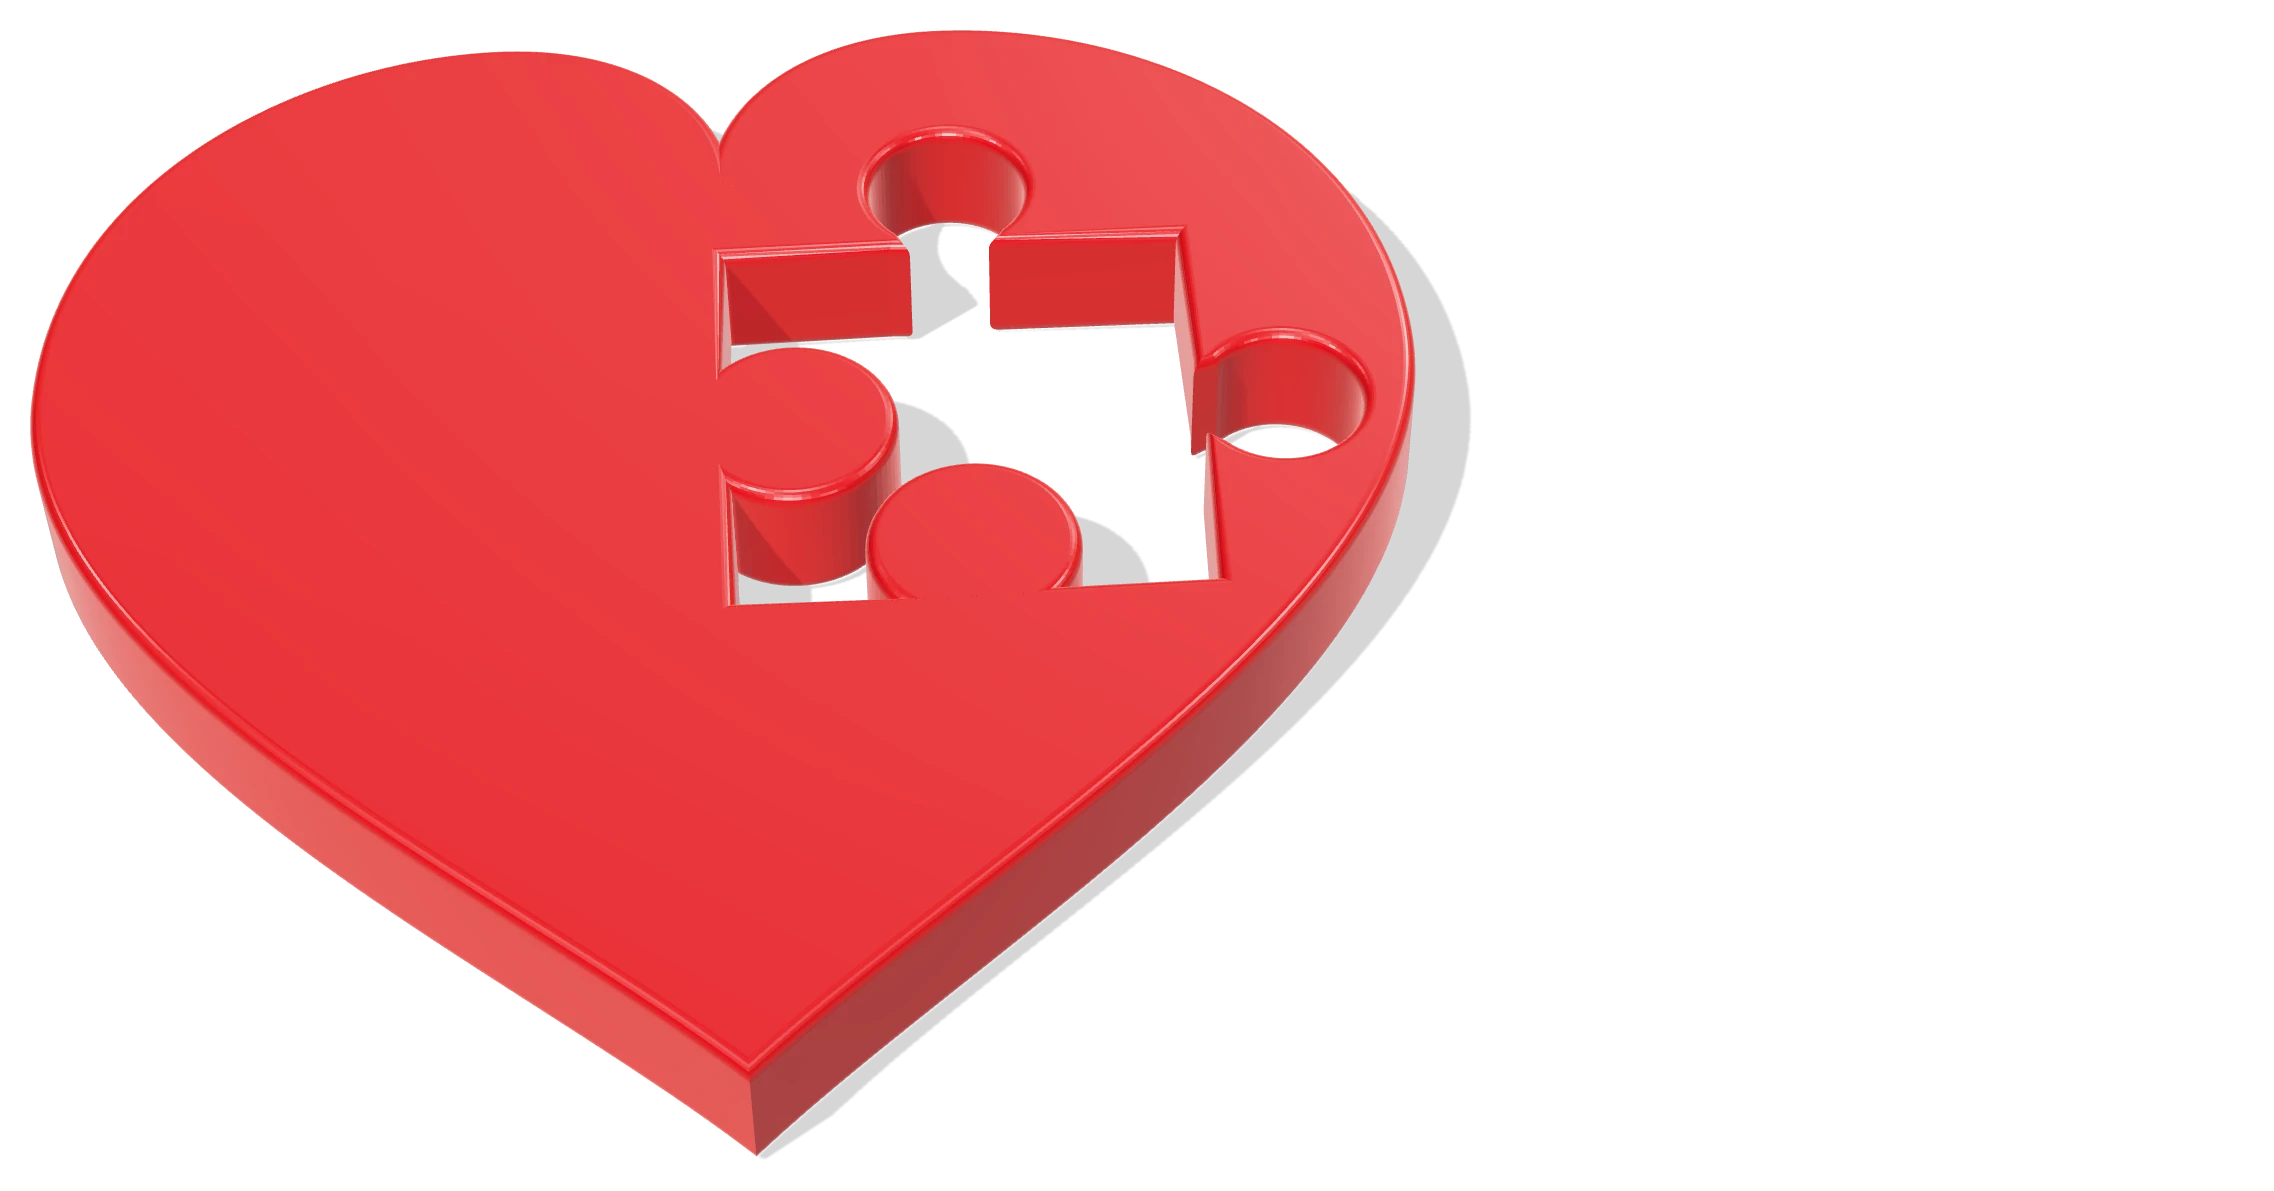
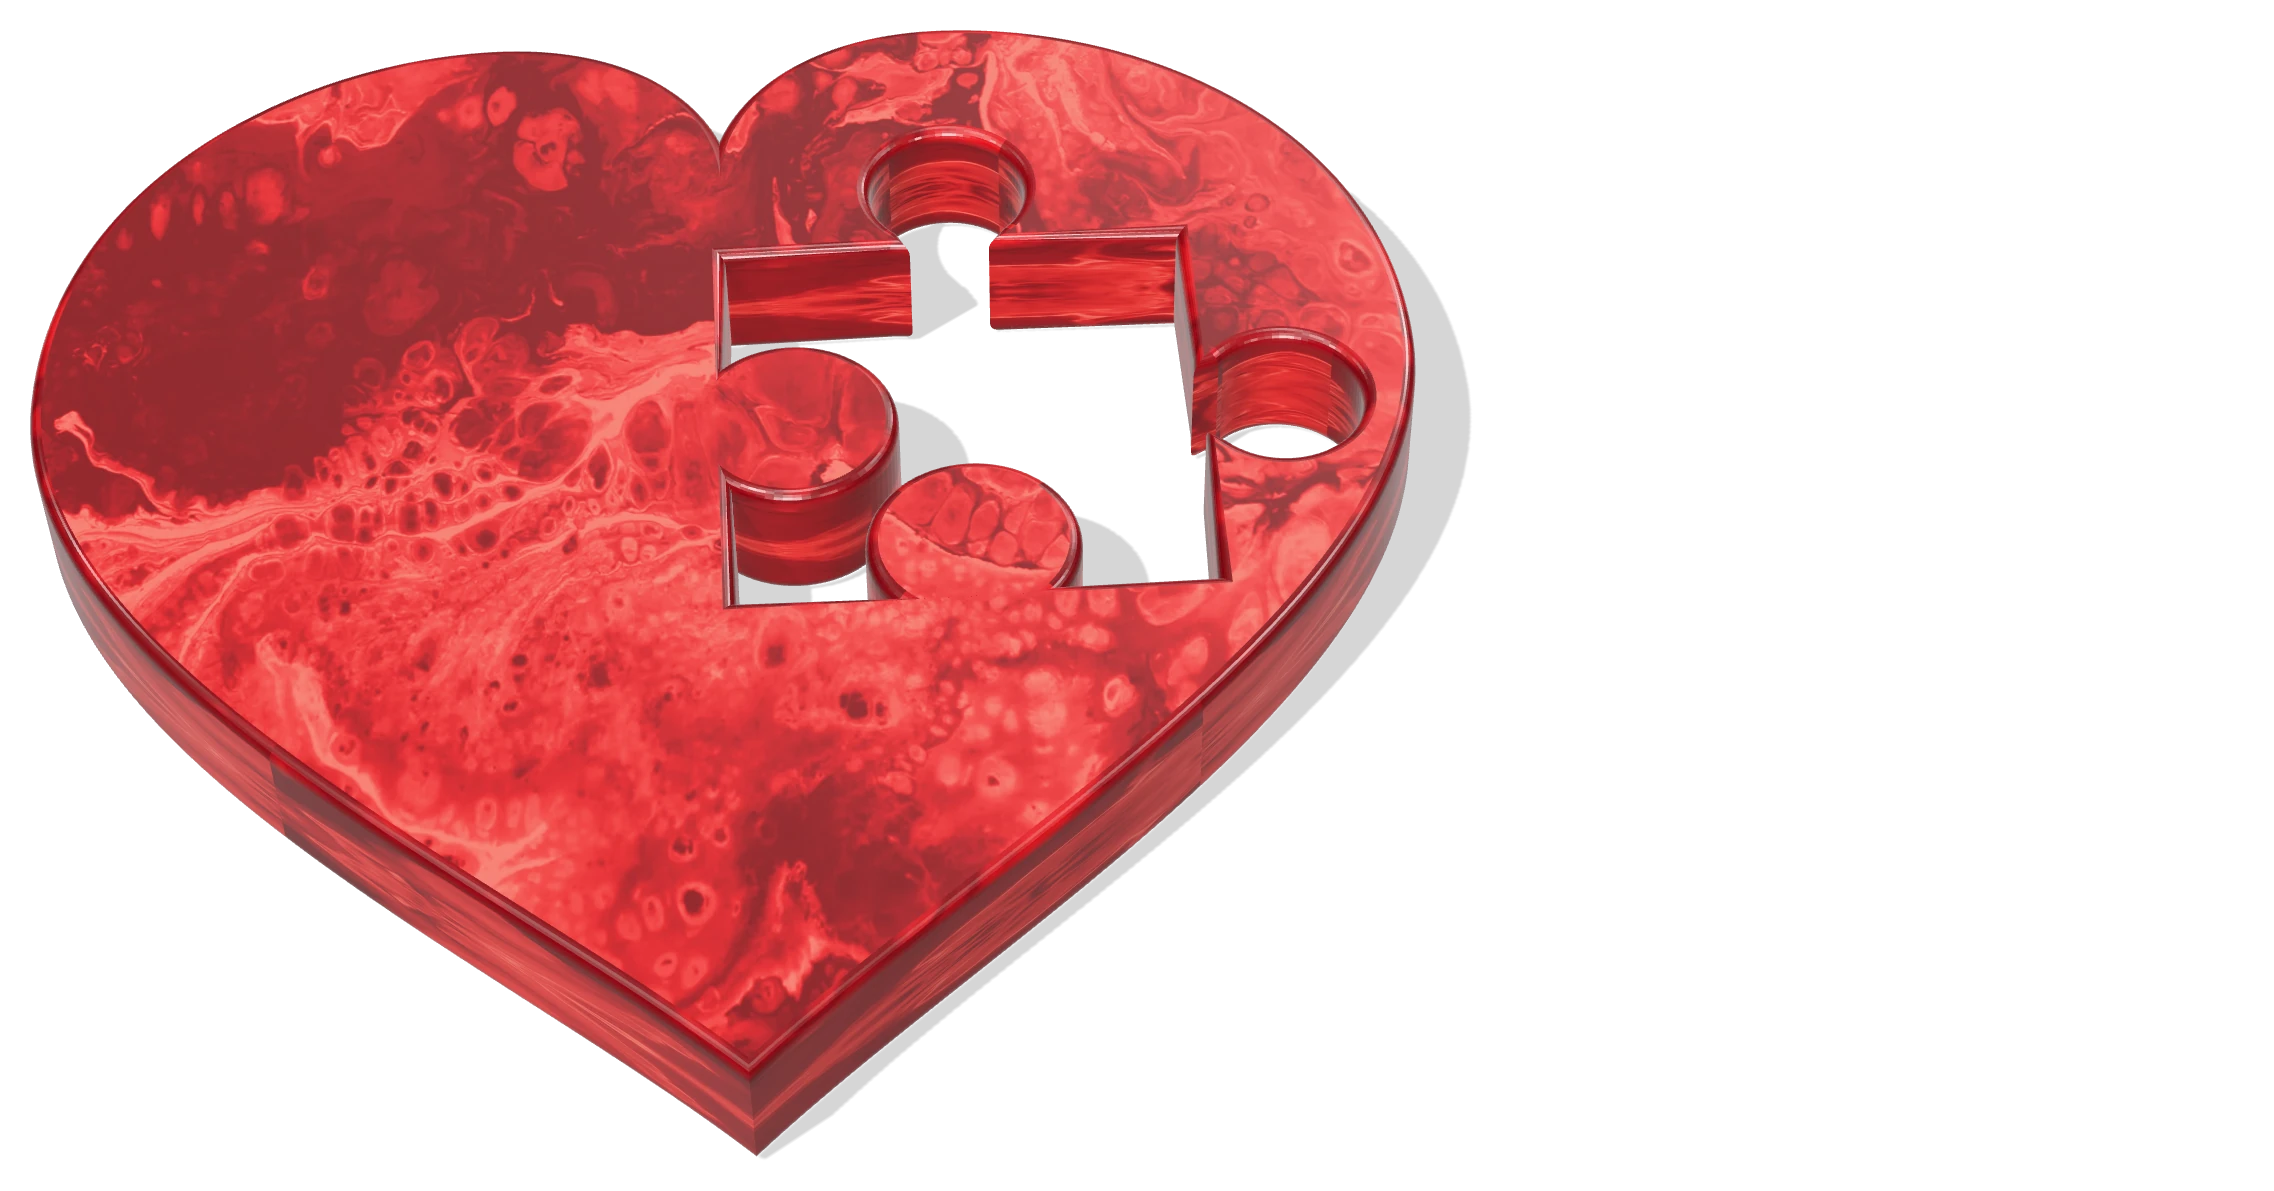
Hero: red marbled heart, white-blood-cell puzzle piece
Claude-Session: https://claude.ai/code/session_01PkeobWmfrChtD7SqVdFZLv

Changed region(s): [[0.0, 0.0311, 0.6245, 0.9631], [0.562, 0.1243, 0.5932, 0.1553]]

diff --git a/index.html b/index.html
@@ -978,7 +978,7 @@ body{font-size:15px}
 </div></header>
 
 <section id="top" class="leap leaplite">
-<div class="pzl" role="img" aria-label="A red heart with its missing silver puzzle piece about to slot back in"><img class="pzh" fetchpriority="high" decoding="async" src="images/hero-heart.webp" alt=""><img class="pzp" fetchpriority="high" decoding="async" src="images/hero-piece.webp" alt=""></div>
+<div class="pzl" role="img" aria-label="A red heart with a marbled blood texture and its missing white-blood-cell puzzle piece about to slot back in"><img class="pzh" fetchpriority="high" decoding="async" src="images/hero-heart.webp" alt=""><img class="pzp" fetchpriority="high" decoding="async" src="images/hero-piece.webp" alt=""></div>
 <div class="leaptop rise">
 <p class="leapeye">Arter.IQ · Proof, not promises</p>
 <h1 class="disp h1 leaph">Your heart deserves better questions. <span class="grad">And clearer answers.</span></h1>
